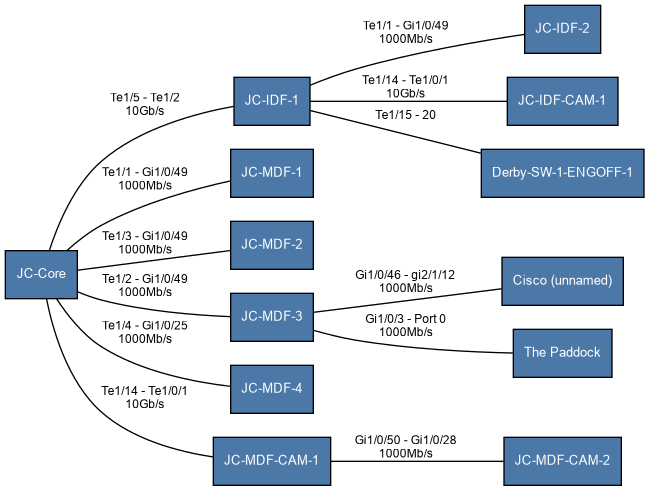
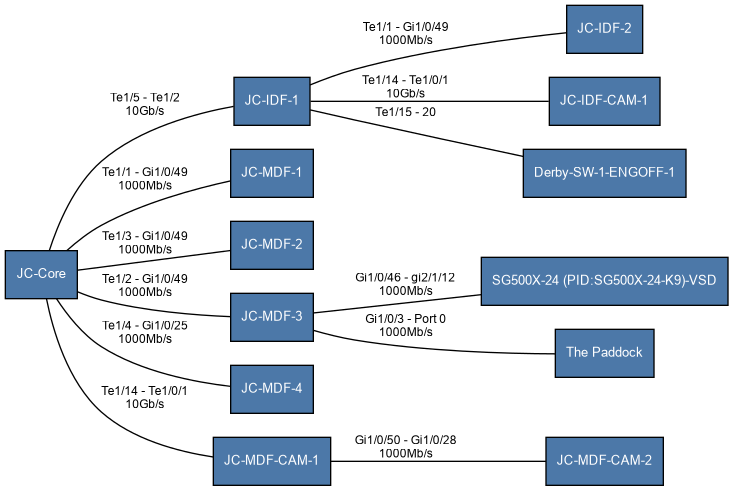
Git Title: topo-map.py: prefer platform over OUI when neighbor name is just a MAC
Git Description:

Summary

Fix, in ne_common.py: resolve_unnamed() and tidy_name() now take an optional
platform argument. When a neighbor's name is just its chassis MAC, the platform string
— if the record has one — wins over the OUI-guessed vendor. strip_vendor_prefix()
is reused so "Cisco SG500X-24 (PID:SG500X-24-K9)-VSD" becomes "SG500X-24 (PID:SG500X-24-K9)-VSD",
matching how the Platform column already displays it elsewhere. Falls back
to the vendor guess exactly as before when there's no platform
(ProCurve LLDP has no platform field at all, so that path still fires there).

Since this lives in ne_common.py, it fixes cdp-ne.py/lldp-ne.py's Name column
and topo-map.py's node labels from one change — no edits needed to the two
report scripts themselves.

topo-map.py-specific: added a fourth label-priority tier (unnamed < platform < cdp < lldp)
so that if the same device is ever seen elsewhere with a genuinely advertised name,
that name still wins over a platform-derived label — the platform fallback
only wins over a bare OUI guess, never over a real name.

Bonus, found by re-running rather than assumed: the Meraki AP on jc-mdf-3
(previously CiscoMeraki (unnamed)) resolved the same way, now showing Meraki MR36
Cloud Managed Indoor AP — same fix, no special-casing needed.

Verified: cdp-ne.py/lldp-ne.py regression-clean across all captures, all
four topo-map.py filter modes still produce the same node/edge counts as
[…]

diff --git a/topo-map.py b/topo-map.py
@@ -27,6 +27,11 @@ the *same local port* of the *same switch* are merged into one node - the
 LLDP name is kept when both exist, since it tends to carry the more useful
 information (extension/DN) for phones in practice.
 
+A neighbor whose name field is just its own chassis MAC (see ne_common.py's
+resolve_unnamed()) is labeled with its platform string when the record has
+one - "Cisco SG500X-24 (PID:SG500X-24-K9)-VSD" beats a MAC every time - and
+only falls back to an OUI-guessed vendor when there's no platform either.
+
 Node roles
 ----------
 Every capture host is a switch by definition - config-pull.py only runs
@@ -186,10 +191,11 @@ class Node:
 
 
 # How much to trust a label when two sightings disagree on a leaf device's
-# name: an OUI guess is a last resort, CDP's device-id is often a MAC-derived
-# string (Mitel's "SEP<mac>"), LLDP's system name tends to carry the more
-# human-readable info (extension/DN) for the same phone.
-_LABEL_RANK = {"unnamed": 0, "cdp": 1, "lldp": 2}
+# name: an OUI guess is a last resort; a platform string ("Cisco SG500X-24")
+# beats that when the device sent one instead of a name; an actually
+# advertised name beats either, and LLDP's tends to be more human-readable
+# than CDP's MAC-derived device-id (Mitel's "SEP<mac>") for the same phone.
+_LABEL_RANK = {"unnamed": 0, "platform": 1, "cdp": 2, "lldp": 3}
 
 
 class _UnionFind:
@@ -258,7 +264,14 @@ def build_graph() -> tuple[dict[str, Node], dict[object, dict]]:
                     remote_if = nc.shorten_interface(
                         rec.get("neighbor_port_id") or rec.get("neighbor_interface") or ""
                     )
-                label = nc.tidy_name(raw_name)
+                neighbor_platform = rec.get("platform", "")
+                label = nc.tidy_name(raw_name, neighbor_platform)
+                if not nc.is_mac(raw_name):
+                    label_rank = kind
+                elif nc.strip_vendor_prefix(neighbor_platform):
+                    label_rank = "platform"
+                else:
+                    label_rank = "unnamed"
                 sightings.append(
                     {
                         "host_key": host_key,
@@ -266,7 +279,7 @@ def build_graph() -> tuple[dict[str, Node], dict[object, dict]]:
                         "neighbor_key": neighbor_key,
                         "neighbor_is_host": neighbor_key in host_keys,
                         "label": label,
-                        "label_rank": "unnamed" if "(unnamed)" in label else kind,
+                        "label_rank": label_rank,
                         "role": classify(rec.get("capabilities", "")),
                         "remote_if": remote_if,
                         "speed": speeds.get(rec.get("local_interface", ""), ""),
